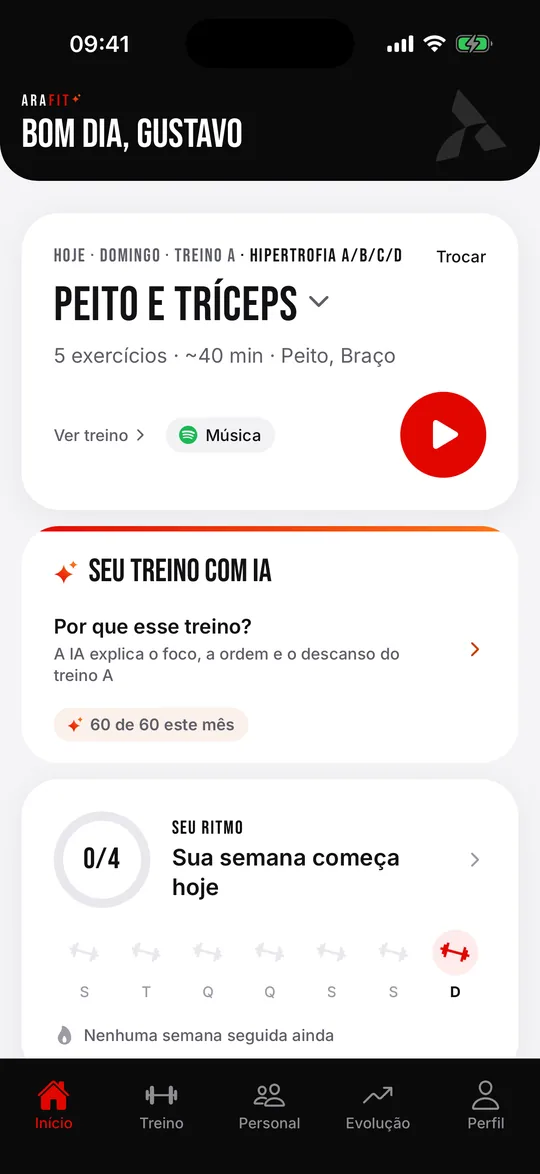
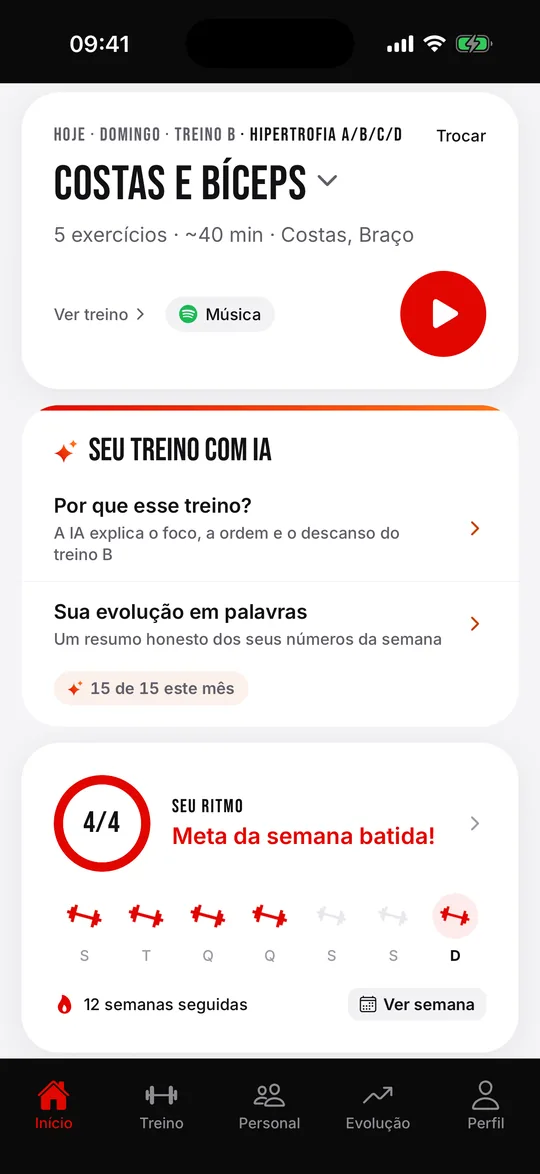
Arafit: telas de iPhone de série a série, placar da semana e evolução em palavras
Volta "Série a série" (carga da última vez e recorde) e "Placar da semana" na galeria
de quem treina, com o descanso na sua própria legenda. A evolução em palavras entra na
galeria de IA do aluno. Início recapturado com o ritmo da semana e "Ver semana"; o
calendário de treinos fica salvo para uso futuro.

diff --git a/src/app/produtos/arafit/page.tsx b/src/app/produtos/arafit/page.tsx
@@ -99,10 +99,22 @@ const ALUNO_SHOTS: Shot[] = [
     b: 'Abre o app e o treino de hoje está lá, com o ritmo da semana.',
   },
   {
+    src: '/images/arafit/iphone/aluno-serie.webp',
+    alt: 'Treino em andamento com carga, repetições, a última vez e o recorde',
+    t: 'Série a série',
+    b: 'Carga e repetições da última vez e o recorde do exercício, à vista antes de cada série.',
+  },
+  {
     src: '/images/arafit/iphone/aluno-descanso.webp',
     alt: 'Treino em andamento com a série marcada e o cronômetro de descanso',
-    t: 'Série a série',
-    b: 'Carga e repetições de cada série, e o descanso começa sozinho e avisa a hora da próxima.',
+    t: 'Descanso contando',
+    b: 'Marcou a série, o cronômetro começa sozinho e avisa quando é hora da próxima.',
+  },
+  {
+    src: '/images/arafit/iphone/aluno-evolucao.webp',
+    alt: 'Evolução com o placar da semana, sequência de semanas na meta e totais',
+    t: 'Placar da semana',
+    b: 'Treinos na semana contra a meta, semanas seguidas na meta e o volume levantado.',
   },
   {
     src: '/images/arafit/iphone/aluno-avaliacao.webp',
@@ -208,7 +220,7 @@ const AI_ALUNO: Shot[] = [
     b: 'A IA explica a ordem e o objetivo dos exercícios do programa que você montou.',
   },
   {
-    src: '/images/arafit/ia-aluno-evolucao.webp',
+    src: '/images/arafit/iphone/ia-aluno-evolucao.webp',
     alt: 'Sua evolução em palavras: resumo da IA na aba Evolução do aluno',
     t: 'A evolução em palavras',
     b: 'Recordes, frequência e avaliação contados como uma conversa, uma vez por semana.',
@@ -931,8 +943,7 @@ export default async function ArafitPage() {
           <h3 className="mt-16 text-[13px] font-semibold uppercase tracking-[0.2em] text-white/60">
             Para o aluno
           </h3>
-          {/* A evolução em palavras entra quando a tela for capturada no iPhone (precisa do histórico do aluno). */}
-          <AiGallery shots={AI_ALUNO.filter((x) => !x.src.endsWith('ia-aluno-evolucao.webp'))} />
+          <AiGallery shots={AI_ALUNO} />
 
           <ul className="mt-14 grid gap-x-8 gap-y-3 sm:grid-cols-2 lg:grid-cols-4">
             {AI_RULES.map((r) => (
